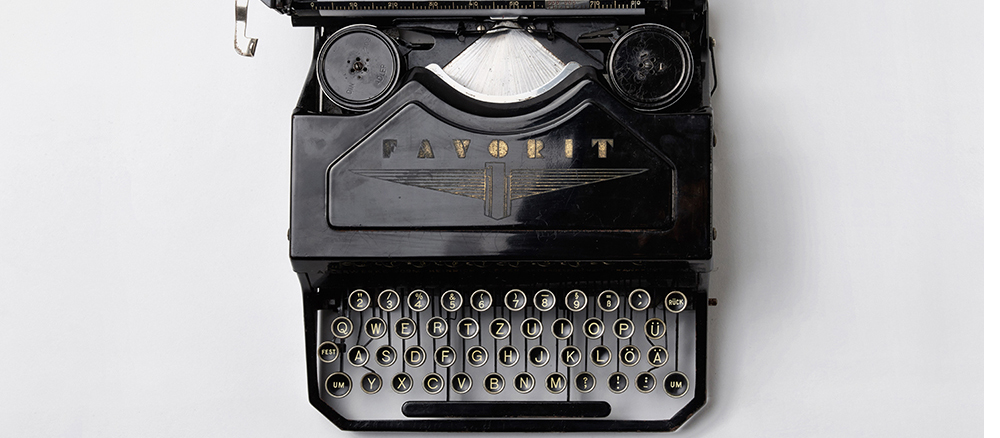
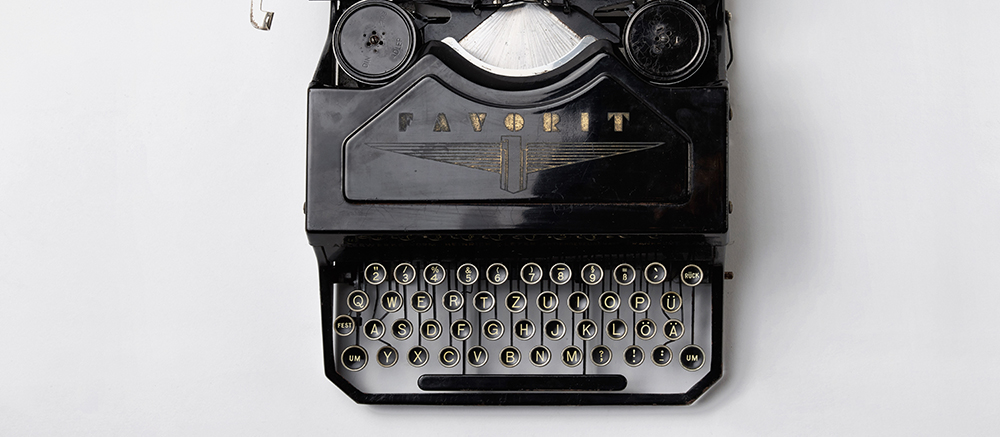
changed rsvp photo, added flexbox nav layout

Changed region(s): [[0.217, 0.0, 0.775, 1.0], [0.961, 0.0, 1.0, 1.0]]

diff --git a/css/styles.css b/css/styles.css
@@ -202,6 +202,7 @@ styes for small/mobile screens
 	.main-banner-photo {
 		margin-bottom: .75em;  /* 12px  */
 		display: block;
+		max-width: 1000px;
 	}
 
 
@@ -460,17 +461,22 @@ styes for tablets/small laptops
 	}
 
 	nav ul {
+		/* using flexbox for nav layout*/
 		text-align: center;
+		display: flex;
+		flex-direction: row;
+		justify-content: center;
+		align-items: center;
 	}
 
 
 	.group .nav-list {
-		display: inline-block;
-		width: 20%;
-		margin: 0;
+		width: 17%;
+		margin: auto;
 		background: none;
 		border: none;
 	}
+
 
 	/*.group .nav-list:first-child {
 		margin-right: -2em;
@@ -478,7 +484,7 @@ styes for tablets/small laptops
 */
 
 	nav ul li a {
-		font-size: 1.1em;
+		font-size: 1.4em;
 	}
 
 
